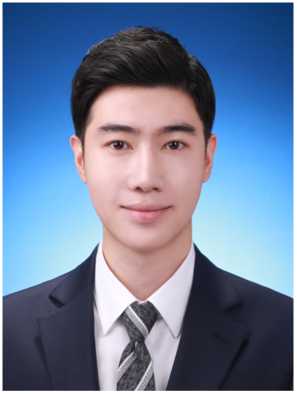
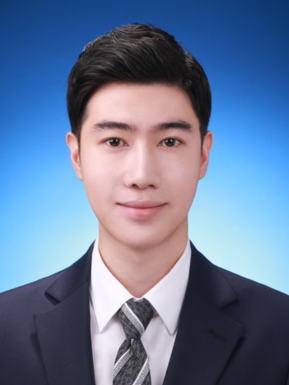
배경색상 변경, 수상내역

diff --git a/index.html b/index.html
@@ -149,24 +149,23 @@
 
         <div class="resume-item d-flex flex-column flex-md-row justify-content-between mb-5">
           <div class="resume-content">
-            <h3 class="mb-0">University of Colorado Boulder</h3>
-            <div class="subheading mb-3">Bachelor of Science</div>
+            <h3 class="mb-0">빅데이터 딥러닝 AI 설계 국비교육(멀티캠퍼스)</h3>
+            <!-- <div class="subheading mb-3">Bachelor of Science</div> -->
             <div>Computer Science - Web Development Track</div>
-            <p>GPA: 3.23</p>
           </div>
           <div class="resume-date text-md-right">
-            <span class="text-primary">August 2006 - May 2010</span>
+            <span class="text-primary">19.11 - 20.07</span>
           </div>
         </div>
 
         <div class="resume-item d-flex flex-column flex-md-row justify-content-between">
           <div class="resume-content">
-            <h3 class="mb-0">James Buchanan High School</h3>
-            <div class="subheading mb-3">Technology Magnet Program</div>
+            <h3 class="mb-0">OCP 대비 DB 교육(KG 아이티뱅크)</h3>
+            <!-- <div class="subheading mb-3">Technology Magnet Program</div> -->
             <p>GPA: 3.56</p>
           </div>
           <div class="resume-date text-md-right">
-            <span class="text-primary">August 2002 - May 2006</span>
+            <span class="text-primary">18.11 - 19.02</span>
           </div>
         </div>
 
@@ -191,25 +190,25 @@
             <i class="fab fa-js-square"></i>
           </li>
           <li class="list-inline-item">
-            <i class="fab fa-angular"></i>
+            <i class="fab fa-java"></i>
           </li>
           <li class="list-inline-item">
-            <i class="fab fa-react"></i>
+            <i class="fab fa-android"></i>
           </li>
           <li class="list-inline-item">
             <i class="fab fa-node-js"></i>
           </li>
           <li class="list-inline-item">
-            <i class="fab fa-sass"></i>
+            <i class="fab fa-python"></i>
           </li>
           <li class="list-inline-item">
-            <i class="fab fa-less"></i>
+            <i class="fab fa-r-project"></i>
           </li>
           <li class="list-inline-item">
             <i class="fab fa-wordpress"></i>
           </li>
           <li class="list-inline-item">
-            <i class="fab fa-gulp"></i>
+            <i class="fab fa-aws"></i>
           </li>
           <li class="list-inline-item">
             <i class="fab fa-grunt"></i>
@@ -255,18 +254,16 @@
         <ul class="fa-ul mb-0">
           <li>
             <i class="fa-li fa fa-trophy text-warning"></i>
-            Google Analytics Certified Developer</li>
+            웨어러블 컴퓨터 경진 대회 아이디어부문(장려상)_KAIST, 한국컴퓨팅학회 / 11.11.29</li>
           <li>
             <i class="fa-li fa fa-trophy text-warning"></i>
-            Mobile Web Specialist - Google Certification</li>
+            캡스톤디자인 졸업작품 경진대회(장려상)_CNU 공과대학 / 17.09.21</li>
           <li>
             <i class="fa-li fa fa-trophy text-warning"></i>
-            1<sup>st</sup>
-            Place - University of Colorado Boulder - Emerging Tech Competition 2009</li>
+            2017 Webolution 개발부문(우수상)_국방ICT융합인재양성사업단 / 17.10.18</li>
           <li>
             <i class="fa-li fa fa-trophy text-warning"></i>
-            1<sup>st</sup>
-            Place - University of Colorado Boulder - Adobe Creative Jam 2008 (UI Design Category)</li>
+            종합학술 및 졸업작품 전시회(우수상)_국방ICT융합인재양성사업단 / 17.11.24</li>
           <li>
             <i class="fa-li fa fa-trophy text-warning"></i>
             2<sup>nd</sup>
